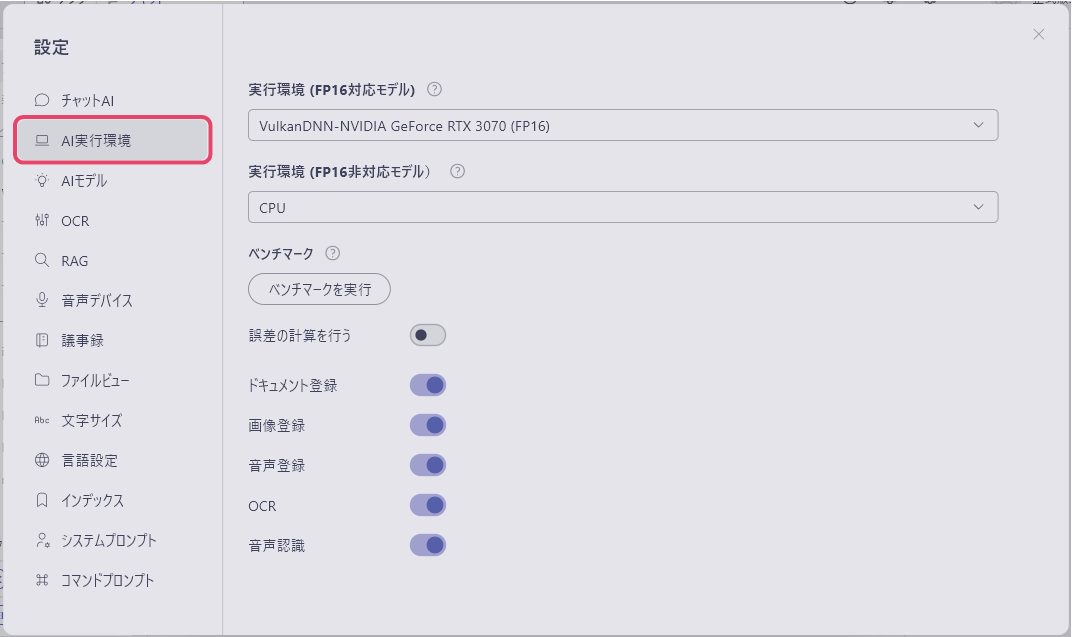
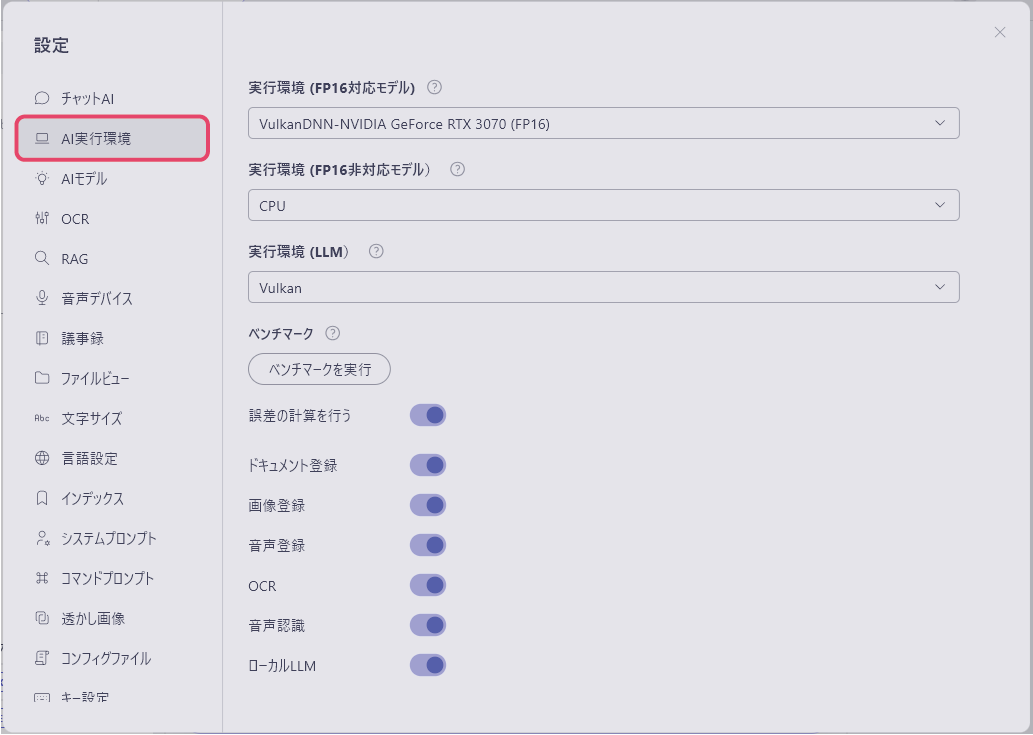
修正

diff --git a/Benchmark.html b/Benchmark.html
@@ -690,7 +690,7 @@
                                         GPUとCPUの選択肢が表示されるので、生成時に使用するものを選択します。<br>
                                         画像検索および音声検索のクエリ処理、リランクはFP16に非対応のモデルです。それ以外の、文章登録、画像登録、音声登録、OCR、音声認識のモデルはFP16に対応しています。ベンチマーク対象のモデルはすべてFP16モデルとなっています。そのため、上の「実行環境（FP16対応モデル）」の項目を変更してください。<br>
                                         <img src="img/benchmark_03.png" alt="benchmark_03"><br>
-                                        ベンチマークを計測する項目を「ドキュメント登録」「画像登録」「音声登録」「OCR」「音声認識」の中から任意の数選択して、「ベンチマークを実行」を選択します。
+                                        ベンチマークを計測する項目を「ドキュメント登録」「画像登録」「音声登録」「OCR」「音声認識」「ローカルLLM」の中から任意のものを選択して、「ベンチマークを実行」を選択します。
                                         <img src="img/benchmark_02.png" alt="benchmark_02"><br></p>
                                         </li>
                                         <li><p>生成の際にドキュメント登録にかかる時間が計測され、結果が表示されます。<br>
